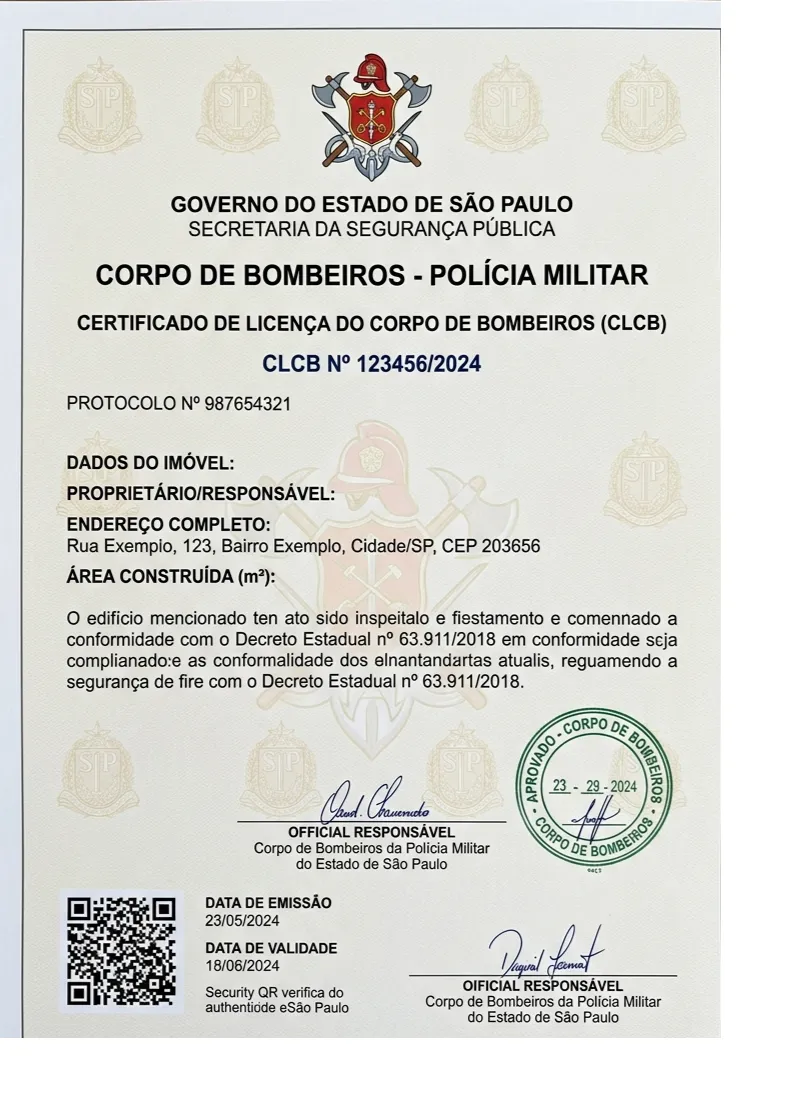
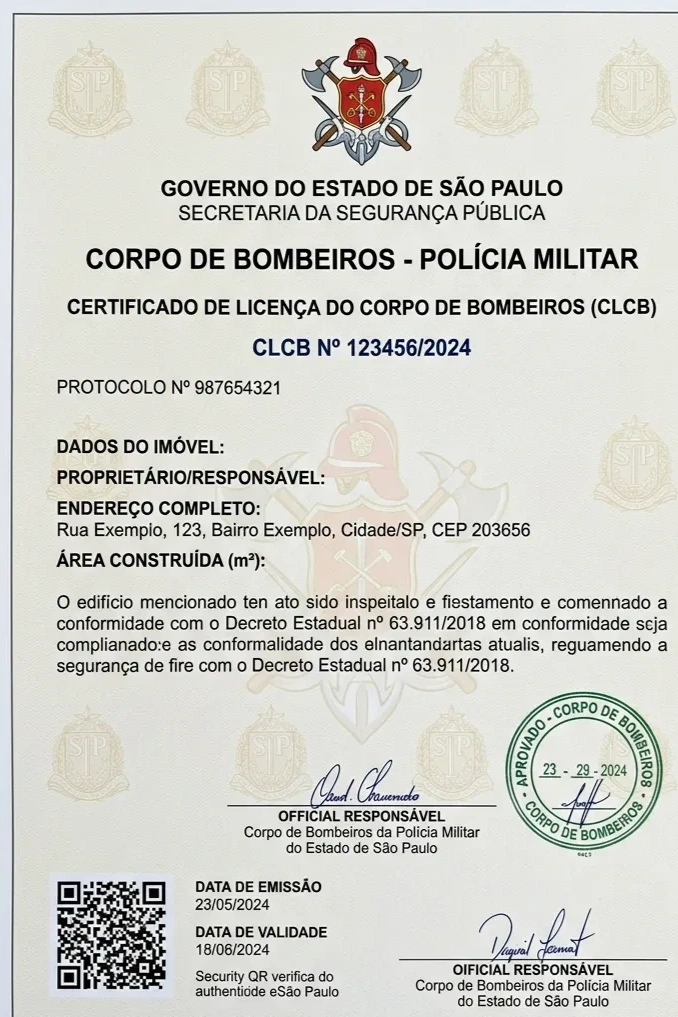
fix: center and enlarge services document showcase and crop certificate symmetrically

diff --git a/css/style.css b/css/style.css
@@ -1499,13 +1499,13 @@ button, input, select, textarea {
 }
 
 .services-section .container {
-  max-width: 1280px;
+  max-width: 1320px;
 }
 
 .services-asymmetric-wrapper {
   position: relative;
   display: grid;
-  grid-template-columns: 0.95fr 1.15fr;
+  grid-template-columns: 0.9fr 1.25fr;
   align-items: stretch;
   gap: 0;
 }
@@ -1514,7 +1514,7 @@ button, input, select, textarea {
 .services-left-box {
   background-color: #FFFFFF;
   border-radius: var(--radius-sm) 0 0 var(--radius-sm);
-  padding: 3rem 2.25rem;
+  padding: 3.5rem 2.5rem;
   box-shadow: 0 10px 30px rgba(0, 0, 0, 0.06);
   position: relative;
   z-index: 10;
@@ -1692,54 +1692,61 @@ button, input, select, textarea {
 .services-right-detail {
   background: linear-gradient(145deg, #1A1D24 0%, #111317 100%);
   border-radius: var(--radius-sm);
-  padding: 3rem 2.5rem;
+  padding: 3.5rem 3rem;
   color: #FFFFFF;
   position: relative;
   z-index: 20;
   margin-left: -1rem;
-  box-shadow: 0 20px 50px rgba(0, 0, 0, 0.45), inset 0 1px 0 rgba(255, 255, 255, 0.07);
+  box-shadow: 0 24px 60px rgba(0, 0, 0, 0.5), inset 0 1px 0 rgba(255, 255, 255, 0.08);
   display: flex;
   align-items: center;
   border: 1px solid rgba(255, 255, 255, 0.06);
   min-width: 0;
+  min-height: 520px;
 }
 
 .services-detail-inner {
   display: flex;
   align-items: center;
-  gap: 2.25rem;
+  gap: 2.75rem;
   width: 100%;
 }
 
-/* Certificate Document Column (Ampliado para 270px para Máximo Destaque Visual) */
+/* Certificate Document Column (Ampliado para 310px & Perfeitamente Centralizado) */
 .detail-cert-wrap {
   flex-shrink: 0;
-  width: 270px;
+  width: 310px;
+  display: flex;
+  align-items: center;
+  justify-content: center;
 }
 
 .cert-document-card {
   position: relative;
   background: #FFFFFF;
-  border-radius: 10px;
-  padding: 6px;
-  box-shadow: 0 18px 45px rgba(0, 0, 0, 0.55), 0 0 0 1px rgba(255, 255, 255, 0.15);
+  border-radius: 12px;
+  padding: 5px;
+  box-shadow: 0 20px 50px rgba(0, 0, 0, 0.6), 0 0 0 1px rgba(255, 255, 255, 0.15);
   transition: transform 0.4s cubic-bezier(0.16, 1, 0.3, 1), box-shadow 0.4s ease, opacity 0.3s ease;
-  transform: rotate(-1.5deg);
+  transform: translateY(0);
+  overflow: hidden;
+  width: 100%;
 }
 
 .cert-document-card:hover {
-  transform: rotate(0deg) scale(1.03);
-  box-shadow: 0 24px 50px rgba(0, 0, 0, 0.7);
+  transform: translateY(-4px) scale(1.02);
+  box-shadow: 0 28px 58px rgba(0, 0, 0, 0.75);
 }
 
 .cert-document-img {
   width: 100%;
   height: auto;
-  aspect-ratio: 3 / 4;
+  aspect-ratio: 3 / 4.3;
   object-fit: cover;
-  border-radius: 6px;
+  object-position: center;
+  border-radius: 8px;
   display: block;
-  background: #FAFAFA;
+  background: #FFFFFF;
 }
 
 /* Detail Text Column Beside Document */

diff --git a/js/main.js b/js/main.js
@@ -501,7 +501,7 @@ function initServicesCarousel() {
 
       if (certBox) {
         certBox.style.opacity = '1';
-        certBox.style.transform = 'rotate(-1.5deg) scale(1)';
+        certBox.style.transform = 'scale(1)';
       }
     }, 120);
   }
